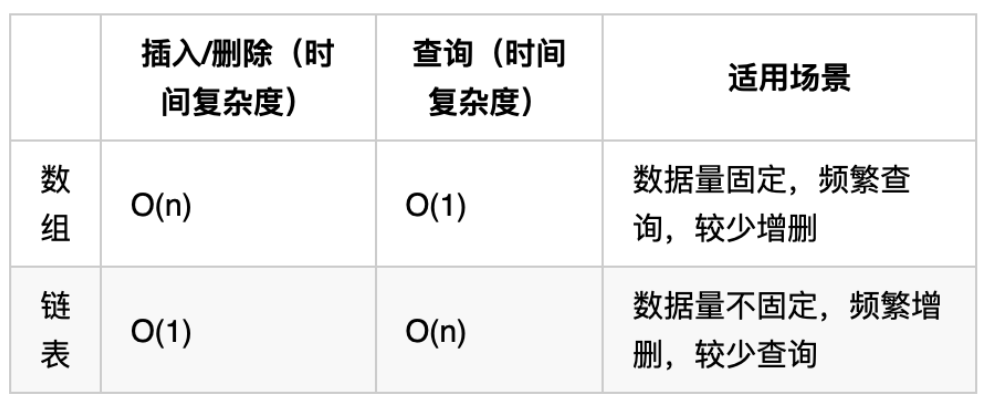
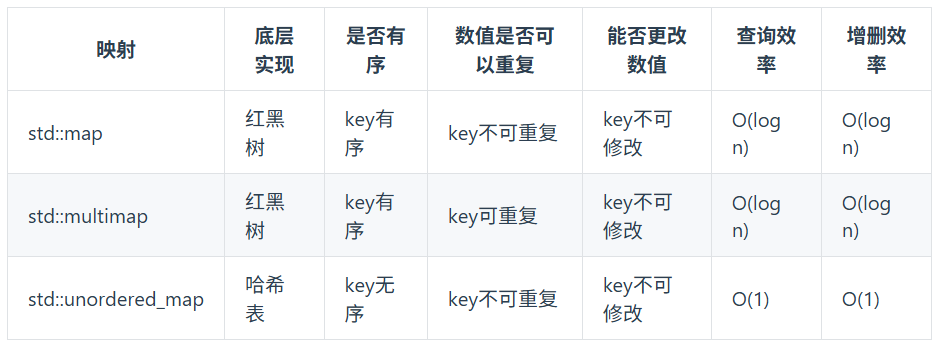
Day05：哈希表

diff --git a/Day05.md b/Day05.md
@@ -1,0 +1,190 @@
+# Day 05
+
+## 13. 有效的字母异同位 
+
+### 题目描述
+---
+给定两个字符串 s 和 t ，编写一个函数来判断 t 是否是 s 的 字母异位词。
+> Leetcode 链接：[https://leetcode.cn/problems/valid-anagram/description/](https://leetcode.cn/problems/valid-anagram/description/)
+---
+
+### 题解
+---
+```cpp
+class Solution {
+public:
+    bool isAnagram(string s, string t) {
+         int record[26] = {0};
+         for(int i=0;i<s.size();i++){
+            record[s[i]-'a']++;
+         }
+         for(int i=0;i<t.size();i++){
+            record[t[i]-'a']--;
+         }
+         for(int i=0;i<26;i++){
+            if(record[i])  return false;
+         }
+         return true;
+    }
+};
+```
+> 注意： record[s[i]-'a']++;
+---
+### ✅ 时间复杂度
+---
+O(n)
+---
+### ✅ 空间复杂度
+---
+O(1)
+---
+
+## 14. 两个数组的交集
+
+### 题目描述
+---
+给定两个数组 nums1 和 nums2 ，返回 它们的 交集 。输出结果中的每个元素一定是 唯一 的。我们可以 不考虑输出结果的顺序 。
+> Leetcode 链接：[https://leetcode.cn/problems/intersection-of-two-arrays/description/](https://leetcode.cn/problems/intersection-of-two-arrays/description/)
+---
+
+### 题解
+---
+```cpp
+class Solution {
+public:
+    vector<int> intersection(vector<int>& nums1, vector<int>& nums2) {
+        unordered_set<int> result;
+        unordered_set<int> tmp(nums1.begin(),nums1.end());
+        for(int num:nums2){
+            if(tmp.find(num) != tmp.end())  result.insert(num);  
+        }
+        return vector<int> (result.begin(),result.end());
+    }
+};
+```
+---
+### ✅ 时间复杂度
+---
+O(n     +m)：m 是最后要把 set转成vector
+---
+### ✅ 空间复杂度
+---
+O(n)
+---
+
+
+
+## 15. 快乐数
+
+### 题目描述
+---
+编写一个算法来判断一个数 n 是不是快乐数。
+
+「快乐数」 定义为：
+
+对于一个正整数，每一次将该数替换为它每个位置上的数字的平方和。
+然后重复这个过程直到这个数变为 1，也可能是 无限循环 但始终变不到 1。
+如果这个过程 结果为 1，那么这个数就是快乐数。
+如果 n 是 快乐数 就返回 true ；不是，则返回 false 。
+
+示例 1：
+
+输入：n = 19
+输出：true
+解释：
+12 + 92 = 82
+82 + 22 = 68
+62 + 82 = 100
+12 + 02 + 02 = 1
+示例 2：
+
+输入：n = 2
+输出：false
+
+> Leetcode 链接：[https://leetcode.cn/problems/happy-number/description/](https://leetcode.cn/problems/happy-number/description/)
+---
+
+### 题解
+---
+```cpp
+class Solution {
+public:
+    int getSum(int n){
+        int sum = 0;
+        while(n){
+            sum+=(n%10)*(n%10);
+            n /= 10;
+        }
+        return sum;
+    }
+    bool isHappy(int n) {
+        unordered_set<int> result;
+        while(1){
+            int sum = getSum(n);
+
+            if(sum == 1){
+                return true;
+            }
+            if(result.find(sum)!=result.end()){
+                return false;
+            }
+            result.insert(sum);
+            n = sum;
+        }
+    }
+};
+```
+> 注意这里的int sum = 0;必须初始化，下方isHappy函数用到了循环
+---
+### ✅ 时间复杂度
+---
+O(logn)？？？？？？？？？？？？？？？？？？？？？？？
+---
+### ✅ 空间复杂度
+---
+O(logn)？？？？？？？？？？？？？？？？？？？？？？？
+---
+
+
+## 16. 两数之和
+
+### 题目描述
+---
+给定一个整数数组 nums 和一个整数目标值 target，请你在该数组中找出 和为目标值 target  的那 两个 整数，并返回它们的数组下标。
+
+你可以假设每种输入只会对应一个答案，并且你不能使用两次相同的元素。
+
+你可以按任意顺序返回答案。
+
+> Leetcode 链接：[https://leetcode.cn/problems/two-sum/description/](https://leetcode.cn/problems/two-sum/description/)
+---
+
+### 题解
+---
+![alt text](assets/image.png)
+```cpp
+class Solution {
+public:
+    vector<int> twoSum(vector<int>& nums, int target) {
+        unordered_map<int,int> map;
+        for(int i=0;i<nums.size();i++){
+            auto iter = map.find(target - nums[i]);
+            if(iter != map.end()){
+                return {iter->second,i};
+            }
+            map.insert(pair<int,int>(nums[i],i));
+        }
+        return {};
+    }
+};
+```
+---
+> 本题不仅要知道元素有没有遍历过，还要知道这个元素对应的下标
+### ✅ 时间复杂度
+---
+O(n)
+---
+### ✅ 空间复杂度
+---
+O(n)
+---

diff --git a/README.md b/README.md
@@ -20,6 +20,7 @@ This repository documents my C++ algorithm learning journey with a focus on:
 | Day 02 | 最短子数组、螺旋矩阵、区间和、开发商购买土地 | [笔记](./Day02.md)|
 | Day 03 | 移除链表元素、设计链表、反转链表| [笔记](./Day03.md)|
 | Day 04 | 两两交换链表中的节点、删除链表的倒数第N个节点、链表相交| [笔记](./Day04.md)|
+| Day 05 | 有效的字母异同位、两个数组的交集、快乐数、两数之和| [笔记](./Day05.md)|
 
 > 每日更新当日所学，记录题意、思路、代码优化过程
 
